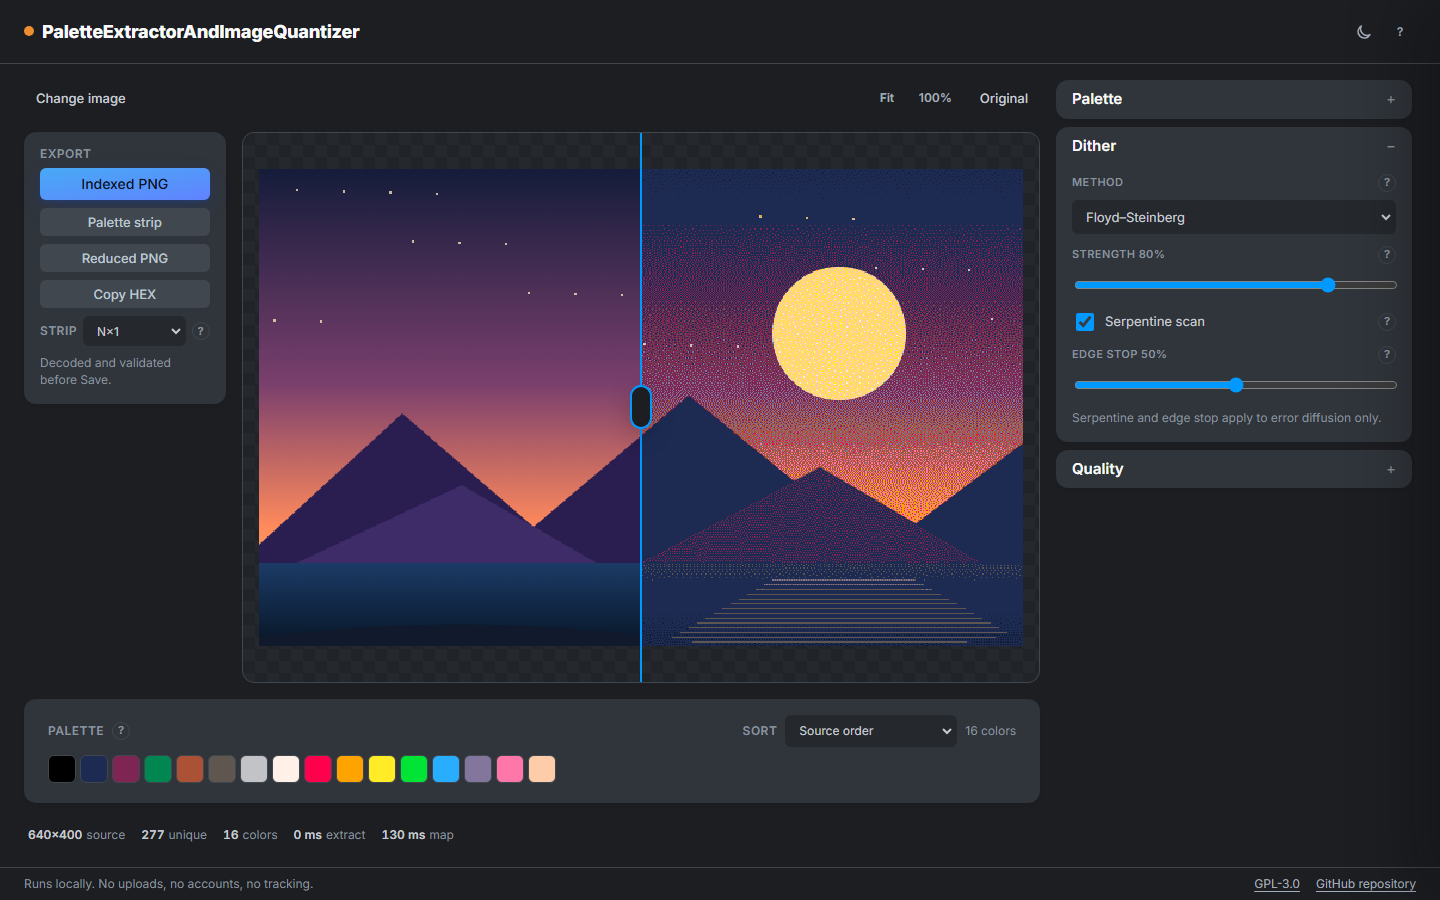
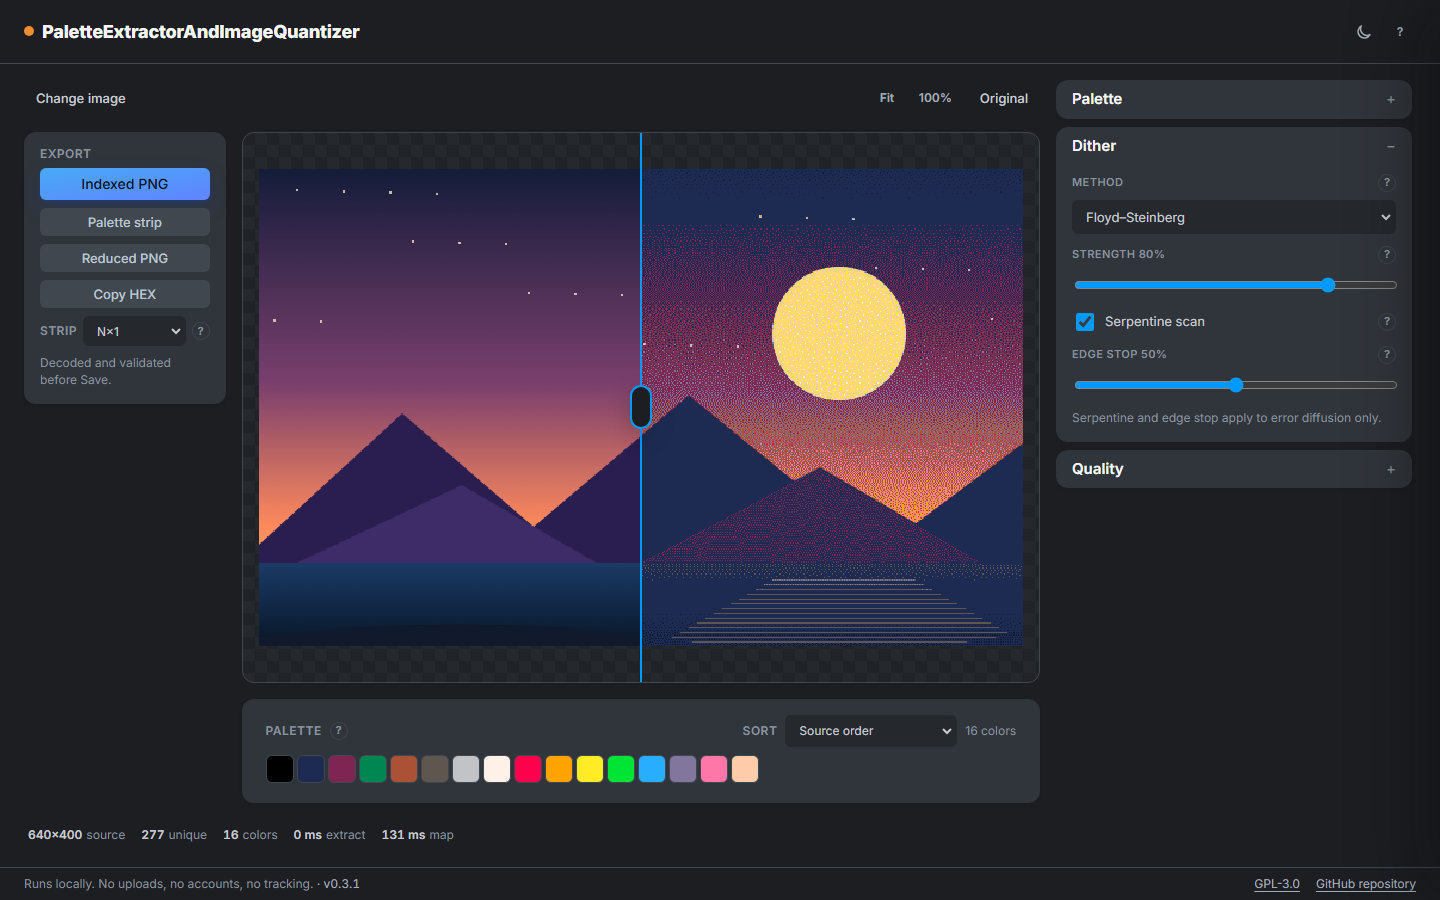
Align palette with canvas and release 0.3.1
Move the palette into the canvas column and let the export column span both rows. Canvas and palette now share the same left and right edges, with export as a distinct column to their left. The palette strip uses a 3 px gap so a 24-color palette fits one row at 1440 px.

Show the running version in the footer, bump package.json and APP_VERSION to 0.3.1, and recapture both README screenshots. The annotated v0.3.1 tag marks this release commit.

Browser checks at 1440x900, 1280x900, 1024x768, 980x700, and 360x800: palette/canvas edges match, export sits left of both on desktop and above the canvas on mobile, no overlap, page fixed on desktop, footer shows v0.3.1. Tests: 85 passing.

Changed region(s): [[0.0, 0.7778, 0.5312, 0.9022], [0.2188, 0.9644, 0.25, 0.9956]]

diff --git a/js/main.js b/js/main.js
@@ -1,6 +1,7 @@
 // @ts-check
 import { parseHex } from './core/color.js';
 import { createPalette, paletteHexList, sortPalette } from './core/palette.js';
+import { APP_VERSION } from './core/version.js';
 import { BUILTIN_PALETTES } from './core/palettes/builtin.js';
 import { parsePaletteFile } from './core/palettes/import.js';
 import { copyText, debounce } from './ui/dom.js';
@@ -22,6 +23,9 @@ import { initTooltips } from './ui/tooltips.js';
 
 const MAX_PIXELS = 16_777_216;
 const PREVIEW_EDGE = 1024;
+
+const versionLabel = document.getElementById('app-version');
+if (versionLabel) versionLabel.textContent = `· v${APP_VERSION}`;
 
 const hero = document.getElementById('hero');
 const workspace = document.getElementById('workspace');

diff --git a/css/layout.css b/css/layout.css
@@ -184,6 +184,12 @@
   gap: var(--peiq-space-3);
 }
 
+.peiq-footer__version {
+  color: var(--peiq-text-secondary);
+  font-variant-numeric: tabular-nums;
+  white-space: nowrap;
+}
+
 /* Desktop app frame: the page itself does not scroll. The shell fills the space
    between the header and footer, the stage shares that height with the palette and
    export panels, and only the rail scrolls when its open sections are too tall. */
@@ -226,7 +232,7 @@
     grid-template-areas:
       "toolbar toolbar rail"
       "export canvas rail"
-      "palette palette rail"
+      "export palette rail"
       "status status rail";
     align-items: stretch;
     padding-block: var(--peiq-space-3);

diff --git a/index.html b/index.html
@@ -262,7 +262,7 @@
   </main>
 
   <footer class="peiq-footer">
-    <p>Runs locally. No uploads, no accounts, no tracking.</p>
+    <p>Runs locally. No uploads, no accounts, no tracking. <span class="peiq-footer__version" id="app-version"></span></p>
     <nav class="peiq-footer__links" aria-label="Project links">
       <a href="https://www.gnu.org/licenses/gpl-3.0.html" target="_blank" rel="noopener noreferrer">GPL-3.0</a>
       <a href="https://github.com/kirillhod/PaletteExtractorAndImageQuantizer" target="_blank" rel="noopener noreferrer">GitHub repository</a>

diff --git a/js/core/version.js b/js/core/version.js
@@ -6,7 +6,7 @@
  */
 
 /** @type {string} */
-export const APP_VERSION = '0.3.0';
+export const APP_VERSION = '0.3.1';
 
 /**
  * Bump this when a decision-affecting rule changes (tie-break, ordering, hashing, or

diff --git a/css/components.css b/css/components.css
@@ -786,6 +786,7 @@
   }
 
   .peiq-palette-strip {
+    gap: 3px;
     max-height: 160px;
   }
 

diff --git a/IMPLEMENTATION_PLAN.md b/IMPLEMENTATION_PLAN.md
@@ -38,7 +38,7 @@ agents; it defers to this plan for *what* to build.
 | Core | Color, histogram, five extractors, refinement, exact/LUT mapping, dithering, PNG index/encode/decode, palettes |
 | UI | Stage + compact collapsible rail, left export column, contextual tooltips, themes, extract/map modes, fixed palettes, dithering, indexed PNG, Help with references and credits |
 | Tests | 85 passing (`node --test`), including golden hashes, dithering, palettes, indexed PNG, references |
-| Version | `js/core/version.js`; `v0.3.0` tagged; M2 complete |
+| Version | `js/core/version.js`; `v0.3.1` tagged; M2 complete |
 | Next | M3: ΔE00 QA, palette editor/locks, presets, all palette formats, remaining theory topics |
 
 ---
@@ -802,8 +802,9 @@ hashes are reviewed when intentional changes occur.
 
 Empty state: full-width hero with the drop zone; no rail.
 Loaded state: three columns on desktop — export, stage, and settings rail — following the
-PaletteForge workflow without its header clutter. The palette spans the export and stage
-columns. On mobile the order is toolbar, export, canvas, palette, settings.
+PaletteForge workflow without its header clutter. The export column spans the canvas and
+palette rows; the palette starts at the canvas’s left edge. On mobile the order is
+toolbar, export, canvas, palette, settings.
 
 ```text
 ┌──────────────────────────────────────────────────────────────┐
@@ -840,8 +841,8 @@ columns. On mobile the order is toolbar, export, canvas, palette, settings.
   fill the viewport; the stage gives the canvas the remaining height and only the rail
   (or a palette strip with many colors) scrolls.
 - **Export panel:** a separate left column with the primary indexed-PNG action and the
-  strip/reduced/HEX actions; above the canvas below 980 px. The palette spans the export
-  and canvas columns, so a large palette gets more width and height.
+  strip/reduced/HEX actions; above the canvas below 980 px. The column spans the canvas and
+  palette rows, and the palette aligns with the canvas’s left edge.
 - **QA:** summary in the status line; full ΔE/worst-pixel/contrast table in the Quality
   section.
 - The header shows the full public name at ≥980 px; below that, the short mark `PEIQ`
@@ -1673,7 +1674,9 @@ A change is done only when:
 | 2026-11-13 | Add `.nojekyll` and stage only runtime files in the Pages workflow | Pages readiness; keeps tests, tools, docs, and `.git` out of the deployed artifact |
 | 2026-11-13 | Move Export to a stage panel; fix the desktop page frame; compact footer with repository link | Export is the primary output action, not a setting; only the rail should scroll; owner asked for a repo link |
 | 2026-11-13 | Add `?` tooltips for non-obvious controls, including serpentine scan and edge stop | Plain-language explanations without permanently growing the rail; 13 hints cover the algorithm settings |
-| 2026-11-13 | Make export a third desktop column, left of the stage; palette spans export+stage; export above canvas on mobile | Export is a primary action, but the palette needs vertical room; the narrow export column and 360 px rail give the canvas more width than the previous in-stage layout |
+| 2026-11-13 | Make export a third desktop column, left of the stage; export above canvas on mobile | Export is a primary action, but the palette needs vertical room; the narrow export column and 360 px rail give the canvas more width than the previous in-stage layout |
+| 2026-11-13 | Align palette with canvas; export column spans canvas+palette rows | Owner wants the palette and canvas to share a left edge, with export as a distinct column to their left |
+| 2026-11-13 | Release 0.3.1 with the version shown in the footer | Makes the running build identifiable; the tag marks this UI batch |
 
 ---
 

diff --git a/DESIGN.md b/DESIGN.md
@@ -563,8 +563,8 @@ body instead of making the rail scroll.
 Export is its own column to the left of the canvas on desktop and above the canvas on
 mobile. It reads as the primary action area: a bright primary indexed-PNG button,
 quieter strip, reduced-PNG, and HEX buttons, then strip orientation. The desktop column
-is 180–220 px, so the canvas keeps (and gains) width; the palette spans the export and
-canvas columns below them, giving large palettes more room.
+is 180–220 px, so the canvas keeps its width; the export column spans the canvas and
+palette rows, and the palette aligns with the canvas’s left edge below it.
 
 ```css
 .peiq-workspace {
@@ -1185,8 +1185,8 @@ screen block.
 - **Empty state:** full-width hero with the drop zone; no rail.
 - **Loaded state:** **three columns** – a narrow export column, the stage (canvas +
   palette strip + status), and a 360/340 px right rail (palette settings, dither,
-  quality). The palette spans the export and canvas columns, so large palettes get the
-  full width below both. Below 980 px the order is toolbar, export, canvas, palette,
+  quality). The export column spans the canvas and palette rows; the palette aligns with
+  the canvas’s left edge. Below 980 px the order is toolbar, export, canvas, palette,
   settings.
 - **Header:** 64 px; brand left; theme toggle + Help right. No subbar, no nav links, no
   download button in the header.
@@ -1424,7 +1424,7 @@ document.querySelectorAll('[data-reveal]').forEach((el) => {
 - On desktop, keep the page itself fixed between header and footer; only the settings
   rail and a long palette strip may scroll.
 - Put export actions in their own left column, not inside the settings rail or under the
-  canvas; the palette then spans the export and canvas columns.
+  canvas; the palette starts where the canvas starts, to the right of export.
 - Keep the header to brand + theme toggle + Help; settings and export live below it.
 - Switch themes instantly; do not cross-fade colors between themes.
 - Respect `prefers-reduced-motion`; keep every interaction keyboard-operable.

diff --git a/AGENTS.md b/AGENTS.md
@@ -257,7 +257,7 @@ and the change is committed locally with a descriptive body (plan §16).
 ## 12. Current state and next task
 
 - Plan: ✅ `1.0.0`; `DESIGN.md` ✅ (dark + light themes, auto + 3-state toggle);
-  M0 ✅ `v0.1.0`; M1 ✅ `v0.2.2`; M2 ✅ `v0.3.0` (85 tests).
+  M0 ✅ `v0.1.0`; M1 ✅ `v0.2.2`; M2 ✅ `v0.3.0`; latest `v0.3.1` (85 tests).
 - Working: five extractors, fixed palettes + import, exact/LUT mapping, ED/Bayer/blue-noise
   dithering, indexed PNG with `tRNS`, strip/reduced exports, themes, fixed desktop
   frame with a scrollable rail, left export column, contextual tooltips, Help drawer with
